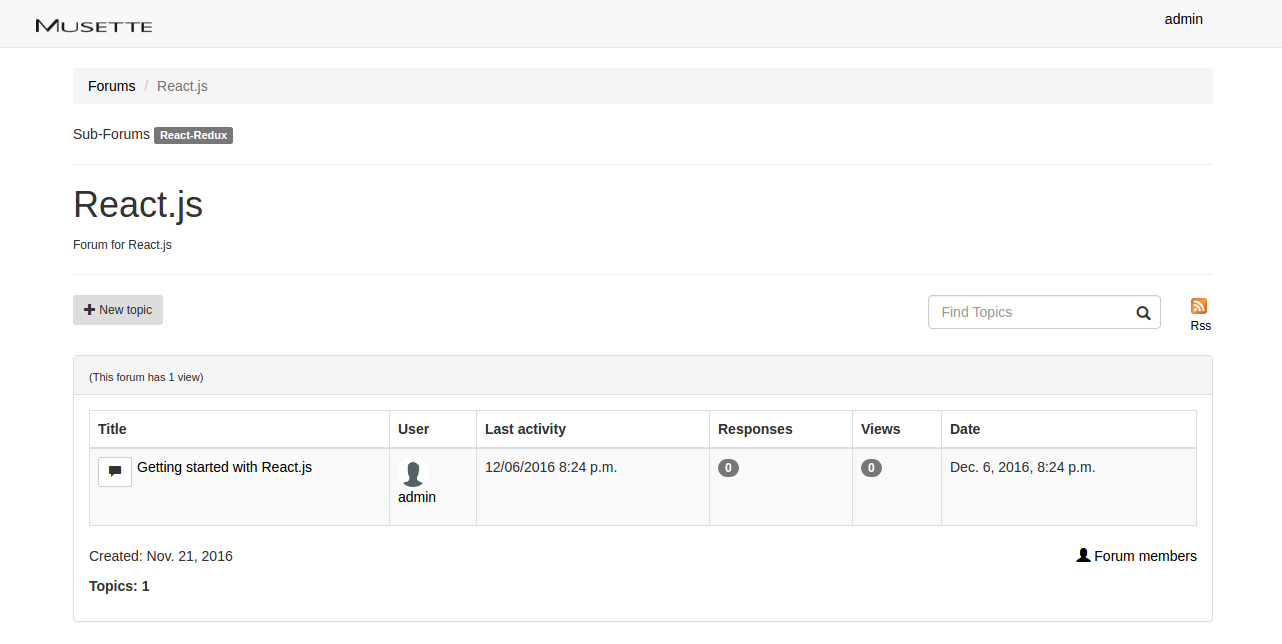
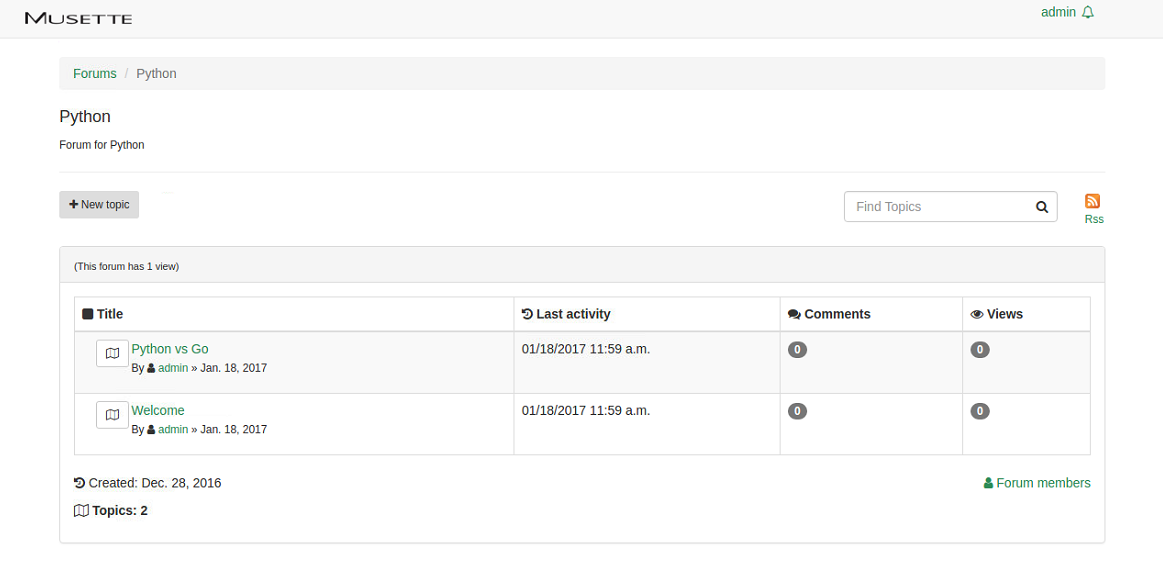
Change in template forum_index.html

diff --git a/musette/templates/musette/forum_index.html b/musette/templates/musette/forum_index.html
@@ -29,18 +29,15 @@
         <li class="active">{{ forum }}</li>
     </ul>
 
-    {% if forums_childs|length > 0 %}
-        <span>Sub-{% trans "Forums" %}</span>
-    {% endif %}
-
-    {% for forum in forums_childs %}
-        <span class="label label-default"><a href="{% url 'forum' forum.name %}" style="color: white">{{ forum.name }}</a></span>
-    {% endfor %}
-
-    <hr />
-
-    <h1>{{ forum.name }}</h1>
+    <h4>{{ forum.name }}</h4>
     <small>{{forum.description|striptags}}</small>
+
+    {% if forums_childs|length > 0 %}
+        <br />
+        {% for forum in forums_childs %}
+            <span class="label label-default"><a href="{% url 'forum' forum.name %}" style="color: white">{{ forum.name }}</a></span>
+        {% endfor %}
+    {% endif %}
 
     <hr />
 
